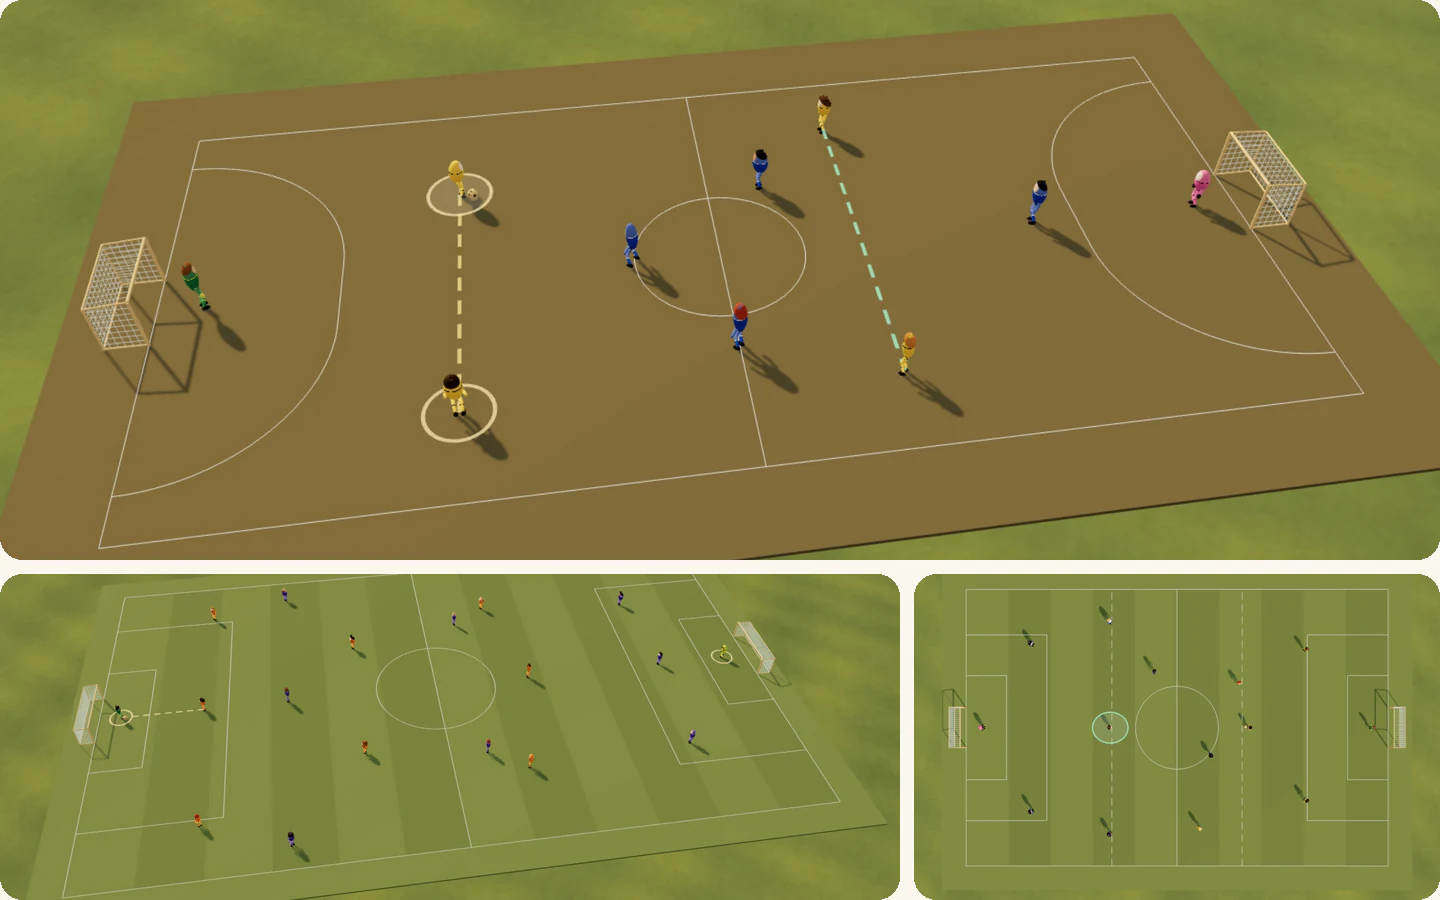
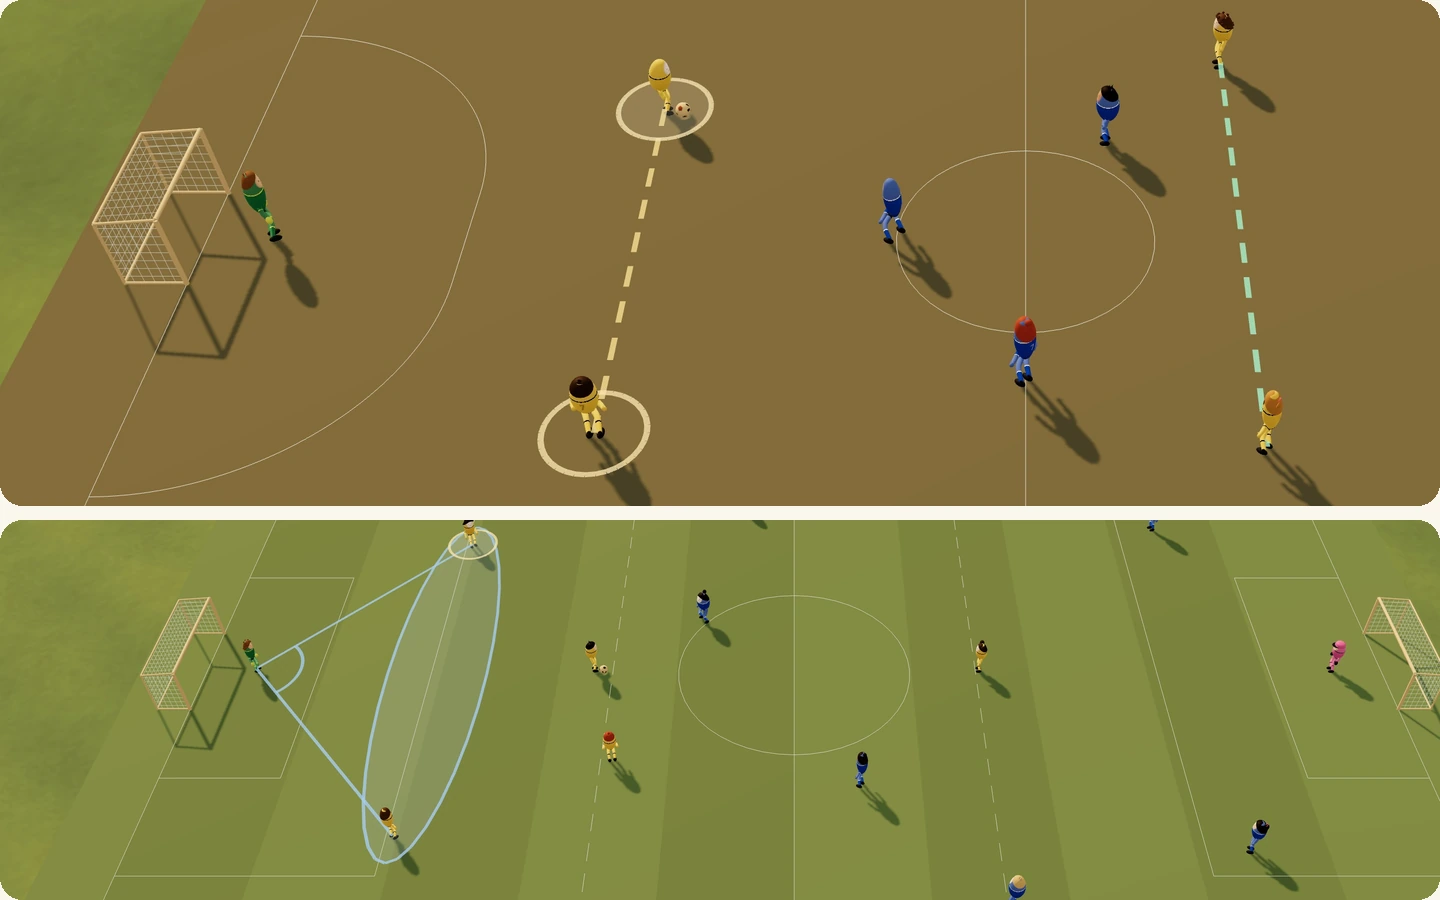
Library Positions and Formations pictures: closer lesson frames on the futsal court (true 3840x2160 canvas), so each player and the lesson's rings and dashed lines read at phone width
Positions: 3-1 Meet the Court Roles (keeper, defender, winger, pivot). Formations: futsal 2-2 with its two dashed pairs, plus a 7v7 back pair ringed in front of the keeper. Alts EN + ES updated.

diff --git a/lib/site/library.ts b/lib/site/library.ts
@@ -51,9 +51,9 @@ export const libraryItemsIn=(g:LibraryGroupId)=>LIBRARY_ITEMS.filter(i=>i.group=
  *  sections show a text-free picture of the whole section drawn from the guides' own data (lib/site/sectionImage.tsx, rendered by
  *  scripts/build-section-pictures.cjs into public/learn/sections/), the others a still from the game that shows that thing. All
  *  16:10 like the section frame, real sizes so nothing shifts. Nov 20 2026 (owner, on the Positions and Formations diagrams: "for these,
- *  can we add from actual lessons in the game? using different angles"): those two show real frames from the game's lessons instead, one
- *  large camera angle and two inset angles (positions-game.webp, formations-game.webp; captured headless from the lesson's own camera
- *  button, composed at 1440 x 900). The drawn webp files stay for the /games cards. */
+ *  can we add from actual lessons in the game? using different angles"): those two show real frames from the game's lessons instead
+ *  (positions-game.webp, formations-game.webp, composed at 1440 x 900). Nov 20 2026 (media follow-up): re-shot close on the futsal
+ *  court at a true 3840 x 2160 canvas so each player reads at phone width, with the lesson's own rings and dashed lines on screen. The drawn webp files stay for the /games cards. */
 export type LibraryPic={src:string;w:number;h:number;/** object-position of a cropped photo */pos?:string;/** a clip: the frame shows a play mark */video?:boolean};
 const still=(src:string,w:number,h:number,pos?:string):LibraryPic=>({src:learnUrl(src),w,h,...(pos?{pos}:{})}),S=(name:string)=>still(`/learn/sections/${name}.webp`,1440,900);
 const islandVideo=allWatchVideos().find(v=>v.group==='island')??allWatchVideos()[0],firstBook=SITE_BOOKS.find(b=>BUILT_BOOKS.includes(b.id));
@@ -99,8 +99,8 @@ export const LIBRARY_EN:LibraryWords={
  items:{
   '/learn/lessons':{alt:'A lesson in the game: two teams on a pitch with the coach line under it',name:'Lessons',line:'Short football lessons with a quiz. For kids who want to learn the game.',count:n=>`${n} lessons`,more:'Each lesson plays one idea on a pitch in three steps and says what the coach would say. There are lessons for 7v7, 9v9, 11v11 and futsal.',cta:n=>`See all ${n} lessons`},
   '/learn/soccer-rules':{alt:'Four rules on the pitch: the offside line, a throw-in, a penalty kick and a free-kick wall',name:'Rules',line:'Offside, throw-ins, fouls and more, with a diagram. For kids, parents and new coaches.',count:n=>`${n} rules`,more:'Each page also says what the referee looks for and the common mix-ups. They are sorted into restarts, fouls, offside and the goalkeeper, and youth soccer.',cta:n=>`See all ${n} rules`},
-  '/learn/soccer-positions':{alt:'The game lesson Meet Your Team: a seven-player team in its positions, goalkeeper, two defenders, three midfielders and a forward, seen from the sideline, from the goalkeeper’s eyes and from overhead',name:'Positions',line:'What each player does and where they stand. For kids finding their place on the team.',count:n=>`${n} positions`,more:'Each page shows where the player stands, what they do with and without the ball, three habits to practise and their shirt number.',cta:n=>`See all ${n} positions`},
-  '/learn/soccer-formations':{alt:'Three formations from the game’s lessons: the futsal 2-2 with its pairs joined by dashed lines from a high corner, a 9v9 3-2-3 from the side and a 7v7 1-2-3-1 from overhead',name:'Formations',line:'Team shapes for 7v7, 9v9, 11v11 and futsal, each with a diagram. For coaches and curious kids.',count:n=>`${n} formations`,more:'Each page shows who plays where, the strengths and weak spots of the shape, and how it moves when your team has the ball.',cta:n=>`See all ${n} formations`},
+  '/learn/soccer-positions':{alt:'The futsal lesson 3-1: Meet the Court Roles, close up: the goalkeeper in goal, the defender ringed behind the ball, a winger ringed out wide and lines joining them to the pivot up front, with the defender and the pivot shown again below',name:'Positions',line:'What each player does and where they stand. For kids finding their place on the team.',count:n=>`${n} positions`,more:'Each page shows where the player stands, what they do with and without the ball, three habits to practise and their shirt number.',cta:n=>`See all ${n} positions`},
+  '/learn/soccer-formations':{alt:'Two team shapes from the game’s lessons: the futsal 2-2, the goalkeeper with a back pair and a front pair each joined by a dashed line, and a 7v7 team with its two defenders ringed in front of the goalkeeper',name:'Formations',line:'Team shapes for 7v7, 9v9, 11v11 and futsal, each with a diagram. For coaches and curious kids.',count:n=>`${n} formations`,more:'Each page shows who plays where, the strengths and weak spots of the shape, and how it moves when your team has the ball.',cta:n=>`See all ${n} formations`},
   '/learn/soccer-terms':{alt:'Four moves on the pitch with passes and runs: give-and-go, overlap, through ball and switch of play',name:'Soccer terms',line:'Football words explained in one or two sentences. For anyone new to the game.',count:n=>`${n} soccer terms`,more:'Each word has a diagram, how to do it, the common mistakes and how it works in 7v7, 9v9, 11v11 and futsal.',cta:n=>`See all ${n} soccer terms`},
   '/learn/soccer-age-groups':{alt:'The four game sizes kids grow through, 4v4, 7v7, 9v9 and 11v11, drawn to the same scale',name:'Age groups',line:'What U6, U8, U10 and U12 mean and how the game grows with age. For parents.',more:'A chart for the 2026-27 season shows each age group by birth year, how to find your child’s group and which size of game each one plays.',cta:()=>'Open the age group chart'},
   '/learn/soccer-drills':{alt:'Two practice grids with cones, gates and arrows: a dribbling weave and passing through gates',name:'Drills',line:'Fun drills with a setup diagram and coaching points. For coaches and parents.',count:n=>`${n} drills`,more:'Each one also says how to run it and how to make it easier or harder. They are sorted by skill, from dribbling to goalkeeping.',cta:n=>`Open the ${n} drills`},

diff --git a/components/es/pages/LibraryEs.tsx b/components/es/pages/LibraryEs.tsx
@@ -39,8 +39,8 @@ const W:Omit<LibraryWords,'groups'>&{groups:Record<'game'|'train'|'more',{title:
  items:{
   '/learn/lessons':{name:'Lecciones',alt:'Una lección del juego: dos equipos en una cancha con la frase del entrenador debajo',line:'Lecciones cortas de fútbol con un quiz. Para niños que quieren aprender el juego.',count:n=>`${n} lecciones`,more:'Cada lección muestra una idea en una cancha en tres pasos y dice lo que diría el entrenador. Hay lecciones de 7v7, 9v9, 11v11 y futsal.',cta:n=>`Ver las ${n} lecciones`},
   '/learn/soccer-rules':{name:'Reglas',alt:'Cuatro reglas en la cancha: la línea del fuera de juego, un saque de banda, un penalti y una barrera de tiro libre',line:'Fuera de juego, saques, faltas y más, con un diagrama. Para niños, padres y entrenadores nuevos.',count:n=>`${n} reglas`,more:'Cada página dice también lo que mira el árbitro y las confusiones más comunes.',cta:n=>`Ver las ${n} reglas`},
-  '/learn/soccer-positions':{name:'Posiciones',alt:'La lección del juego Meet Your Team: un equipo de siete en sus posiciones, portero, dos defensas, tres centrocampistas y un delantero, visto desde la banda, desde los ojos del portero y desde arriba',line:'Qué hace cada jugador y dónde se coloca. Para niños que buscan su lugar en el equipo.',count:n=>`${n} posiciones`,more:'Cada página muestra dónde se coloca el jugador, qué hace con y sin el balón, tres hábitos para practicar y su número de camiseta.',cta:n=>`Ver las ${n} posiciones`},
-  '/learn/soccer-formations':{name:'Formaciones',alt:'Tres formaciones de las lecciones del juego: el 2-2 de futsal con sus parejas unidas por líneas discontinuas desde una esquina alta, un 3-2-3 de 9v9 desde un lado y un 1-2-3-1 de 7v7 desde arriba',line:'Formas de equipo para 7v7, 9v9, 11v11 y futsal, cada una con un diagrama. Para entrenadores y niños curiosos.',count:n=>`${n} formaciones`,more:'Cada página muestra quién juega dónde, los puntos fuertes y débiles de la formación y cómo se mueve cuando tu equipo tiene el balón.',cta:n=>`Ver las ${n} formaciones`},
+  '/learn/soccer-positions':{name:'Posiciones',alt:'La lección de futsal 3-1: conoce los puestos de la cancha, de cerca: el portero en su arco, el cierre marcado con un aro detrás del balón, un ala marcada en la banda y líneas que los unen con el pívot adelante; abajo, el cierre y el pívot otra vez',line:'Qué hace cada jugador y dónde se coloca. Para niños que buscan su lugar en el equipo.',count:n=>`${n} posiciones`,more:'Cada página muestra dónde se coloca el jugador, qué hace con y sin el balón, tres hábitos para practicar y su número de camiseta.',cta:n=>`Ver las ${n} posiciones`},
+  '/learn/soccer-formations':{name:'Formaciones',alt:'Dos formas de equipo de las lecciones del juego: el 2-2 de futsal, el portero con una pareja atrás y otra adelante, cada una unida por una línea discontinua, y un equipo de 7v7 con sus dos defensas marcados delante del portero',line:'Formas de equipo para 7v7, 9v9, 11v11 y futsal, cada una con un diagrama. Para entrenadores y niños curiosos.',count:n=>`${n} formaciones`,more:'Cada página muestra quién juega dónde, los puntos fuertes y débiles de la formación y cómo se mueve cuando tu equipo tiene el balón.',cta:n=>`Ver las ${n} formaciones`},
   '/learn/soccer-terms':{name:'Términos del fútbol',alt:'Cuatro jugadas en la cancha con pases y desmarques: pared, desdoble, pase al hueco y cambio de juego',line:'Palabras del fútbol explicadas en una o dos frases. Para quien empieza a conocer el juego.',count:n=>`${n} términos`,more:'Cada palabra tiene un diagrama, cómo se hace, los errores comunes y cómo funciona en 7v7, 9v9, 11v11 y futsal.',cta:n=>`Ver los ${n} términos`},
   '/learn/soccer-age-groups':{name:'Categorías por edad',alt:'Los cuatro tamaños de partido por los que pasan los niños, 4v4, 7v7, 9v9 y 11v11, dibujados a la misma escala',line:'Qué significan U6, U8, U10 y U12 y cómo cambia el juego con la edad. Para padres.',more:'Una tabla de la temporada 2026-27 muestra cada categoría por año de nacimiento, cómo encontrar la de tu hijo y qué partido juega cada una.',cta:()=>'Abrir la tabla de categorías'},
   '/learn/soccer-drills':{name:'Ejercicios',alt:'Dos cuadrados de práctica con conos, puertas y flechas: un zigzag de conducción y pases entre puertas',line:'Ejercicios divertidos con un diagrama y puntos clave. Para entrenadores y padres.',count:n=>`${n} ejercicios`,more:'Cada uno dice también cómo hacerlo y cómo hacerlo más fácil o más difícil.',cta:n=>`Abrir los ${n} ejercicios`},

diff --git a/scripts/compose-lesson-frames.py b/scripts/compose-lesson-frames.py
@@ -1,0 +1,12 @@
+# Section picture from lesson frames, any panel grid at 1440x900 on the site's paper, rounded corners. Crops are never upscaled.
+# usage: python3 -I compose3.py out.png "x,y,w,h=frame.jpg:cx,cy,cropW" ...
+import sys
+from PIL import Image, ImageDraw
+W,H,R=1440,900,22;PAPER=(251,247,238)
+out,*specs=sys.argv[1:];c=Image.new('RGB',(W,H),PAPER)
+for sp in specs:
+    box,src=sp.split('=');x,y,w,h=[int(v) for v in box.split(',')];p,n=src.split(':');cx,cy,cw=[float(v) for v in n.split(',')];ch=cw*h/w
+    assert cw>=w,'would upscale '+sp
+    im=Image.open(p).convert('RGB').crop((round(cx-cw/2),round(cy-ch/2),round(cx+cw/2),round(cy+ch/2))).resize((w,h),Image.LANCZOS)
+    m=Image.new('L',(w,h),0);ImageDraw.Draw(m).rounded_rectangle((0,0,w-1,h-1),R,fill=255);c.paste(im,(x,y),m)
+c.save(out);print(out)
